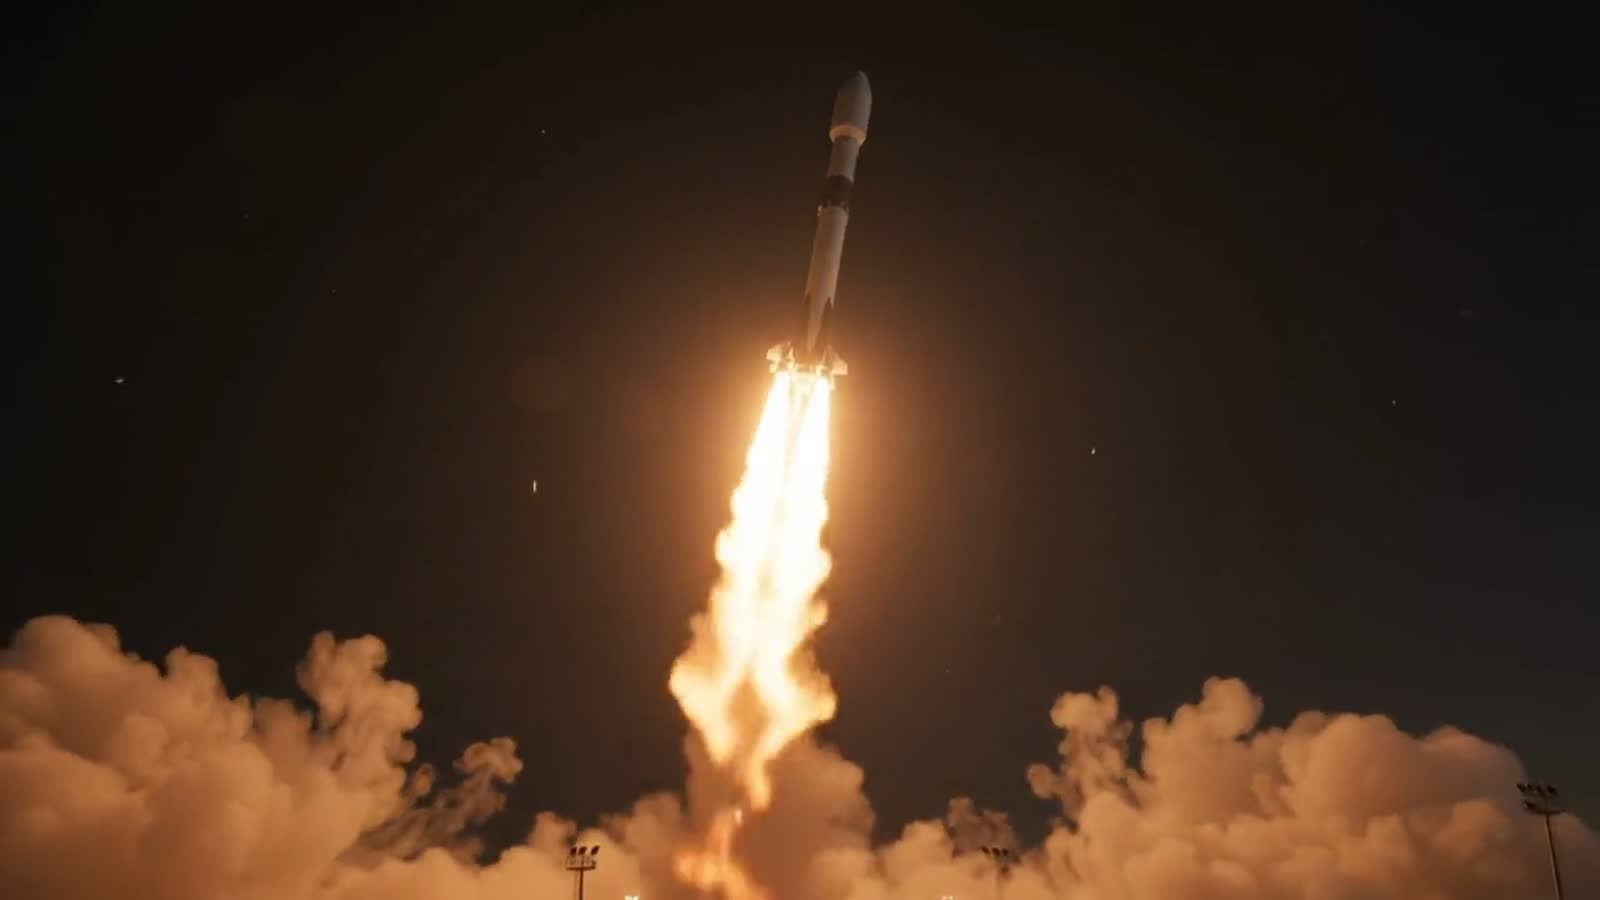
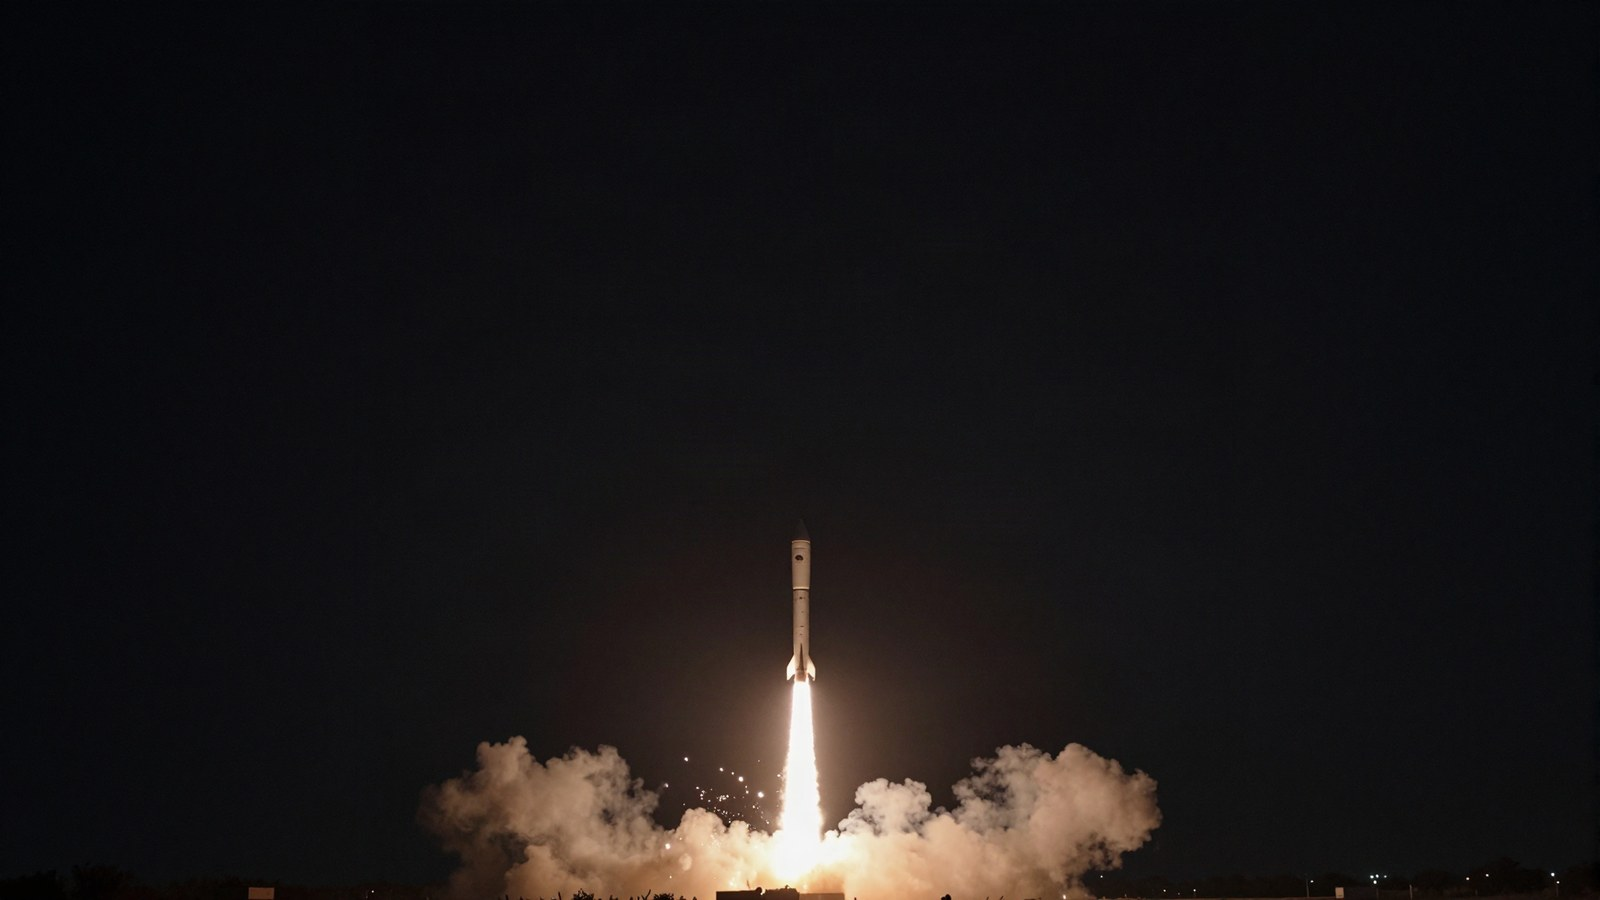
Reemplaza la imagen de cabecera de servicios por una versión limpia
La foto del lanzamiento original tenía una explosión densa de chispas
que competía con el texto. Se generó una nueva imagen (cielo despejado,
cohete nítido, mínimas chispas) con Higgsfield para las 4 páginas de
servicio, y se suavizó el crop/degradado ahora que la imagen no
necesita tanto oscurecido para calmarse.

diff --git a/components/ServicePage.tsx b/components/ServicePage.tsx
@@ -84,14 +84,14 @@ export function ServicePage({ slug }: { slug: ServicioSlug }) {
             fill
             priority
             sizes="100vw"
-            className="-z-20 object-cover object-[48%_42%]"
+            className="-z-20 object-cover object-[50%_40%]"
           />
           <div
             aria-hidden="true"
             className="absolute inset-0 -z-10"
             style={{
               background:
-                "linear-gradient(to right, rgba(5,4,3,.94), rgba(5,4,3,.72) 45%, rgba(5,4,3,.25) 80%), linear-gradient(to bottom, transparent 70%, #050403)",
+                "linear-gradient(to right, rgba(5,4,3,.9), rgba(5,4,3,.6) 45%, rgba(5,4,3,.2) 80%), linear-gradient(to bottom, transparent 70%, #050403)",
             }}
           />
           <div className="mx-auto max-w-6xl">
